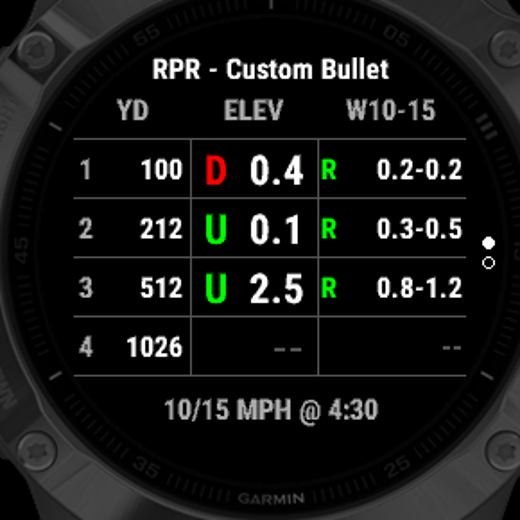
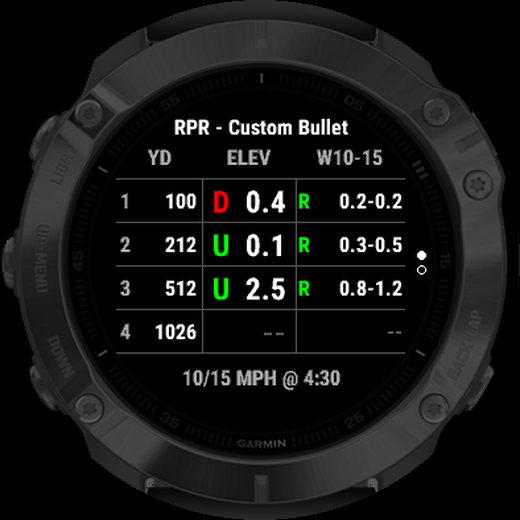
Watch images: centered on the bezel, round, labeled GeoBallistics / Applied Ballistics

diff --git a/assets/main.scss b/assets/main.scss
@@ -29,5 +29,8 @@ img { border-radius: 8px; }
 .ds-word .sync { color: #E5262A; }
 .ds-tag { color: #8A8A8A; font-family: monospace; letter-spacing: 0.25em; font-size: 12px; margin-top: 6px; }
 .ds-shots { display: flex; flex-wrap: wrap; gap: 16px; align-items: flex-start; }
-.ds-shots img { max-width: 260px; }
+.ds-shots figure, .ds-fig { margin: 0; text-align: center; }
+.ds-shots img, .ds-fig img { width: 260px; max-width: 100%; border-radius: 50%; }
+figcaption { color: #8A8A8A; font-size: 14px; margin-top: 6px; }
+figcaption strong { color: #F2F2F2; }
 .ds-note { border-left: 3px solid #E5262A; padding: 8px 14px; background: #111; }

diff --git a/index.md b/index.md
@@ -13,8 +13,14 @@ layout: home
 **Your range card, on your wrist.** Build your card in GeoBallistics or Applied Ballistics like you already do, share it, and it's on your Garmin watch. No retyping, no tape on the stock, no phone out on the line.
 
 <div class="ds-shots">
-  <img src="{{ site.baseurl }}/images/watch-gb-card.png" alt="GeoBallistics stage card on a fenix 6 Pro">
-  <img src="{{ site.baseurl }}/images/watch-ab-card.png" alt="Applied Ballistics card with two winds">
+  <figure>
+    <img src="{{ site.baseurl }}/images/watch-gb-card.png" alt="GeoBallistics stage card on a fenix 6 Pro">
+    <figcaption><strong>GeoBallistics</strong> stage card</figcaption>
+  </figure>
+  <figure>
+    <img src="{{ site.baseurl }}/images/watch-ab-card.png" alt="Applied Ballistics card with two winds">
+    <figcaption><strong>Applied Ballistics</strong> card, two winds</figcaption>
+  </figure>
 </div>
 
 ## How it works

diff --git a/user-guide.md b/user-guide.md
@@ -34,7 +34,7 @@ The phone confirms with "N targets sent to your watch" once the watch has receiv
 
 ## 4. Reading the card
 
-<img src="{{ site.baseurl }}/images/watch-gb-card.png" alt="Card" width="260">
+<figure class="ds-fig"><img src="{{ site.baseurl }}/images/watch-gb-card.png" alt="GeoBallistics card" width="260"><figcaption><strong>GeoBallistics</strong> stage card</figcaption></figure>
 
 | Part | Meaning |
 |---|---|
